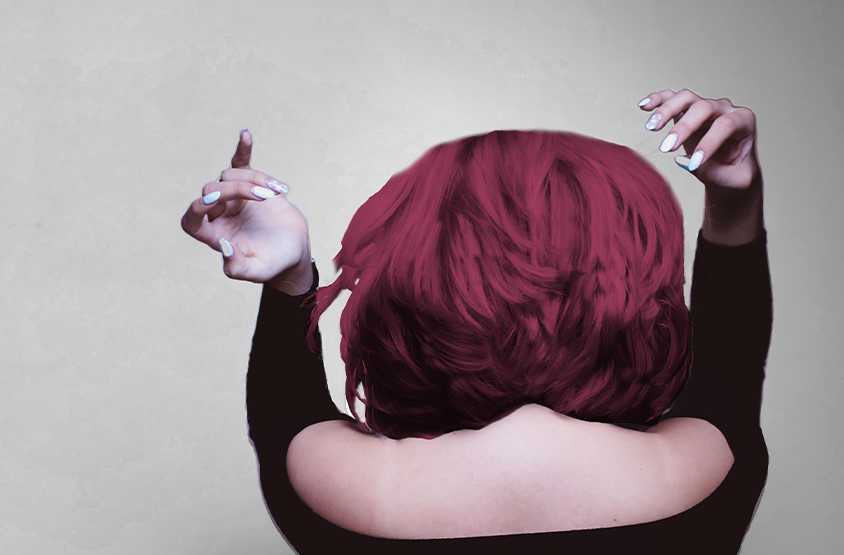
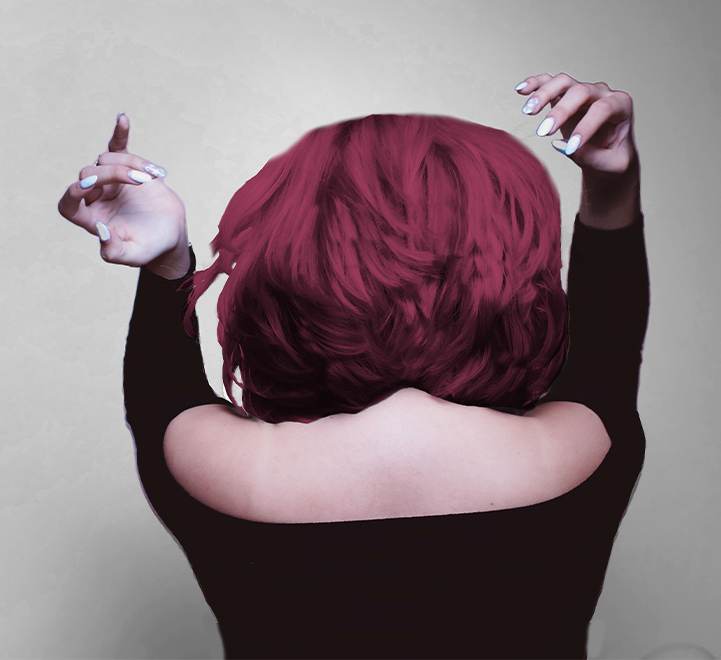
change the image on the main page

diff --git a/css/style.css b/css/style.css
@@ -19,6 +19,10 @@ input:active, :hover, :focus {
 h2 {
 	font-weight: normal;
 }
+.non-scrolling {
+	overflow: hidden;
+	margin-right: 17px;
+}
 .wrap {
 	width: 1144px;
 	margin: 0 auto;
@@ -120,6 +124,9 @@ h2 {
 	background: #ecece6;
 }
 .block-offer {
+	display: flex;
+	flex-direction: column;
+	justify-content: center;
 	background: #ecece6;
 	width: 50%;
 } 
@@ -127,11 +134,10 @@ h2 {
 .page-main__title {
 	display: block;
 	color: #5a5653;
-	margin-top: calc(55% - 129px);
-	margin-left: calc(50% - 200px);
 	font-size: 40px;
 	font-weight: normal;
 	width: 400px;
+	margin-left: calc(50% - 200px);
 }
 .page-main__btn {
 	display: block;
@@ -170,6 +176,12 @@ h2 {
 .page-main__btn a {
 	
 }
+.page-main-content__img_width1200 {
+	display: none;
+}
+.page-main-content__img_width768 {
+	display: none;
+}
 .page-main-content__img {
 	position: relative;
 	height: calc(100vh - 70px);
@@ -197,11 +209,12 @@ h2 {
 .block-about__desc {
 	line-height: 1.5em;
 	width: 600px;
+	letter-spacing: 0.3px;
 }
 
 /* стили для карусели  */
 .carousel {
-	width: 1060px !important;
+	width: 1010px !important;
 	position: relative;
 	margin: 0 auto;
 }
@@ -521,6 +534,7 @@ h2 {
 	margin-left: calc(35% - 250px);
 	width: 500px;
 	line-height: 1.5em;
+	letter-spacing: 0.3px;
 }
 .home-care__slider {
 	width: 444.44px !important;
@@ -606,11 +620,26 @@ footer {
 	.carousel .owl-stage-outer {
 		width: 83%;
 	}
+	.page-main-content__img {
+		max-height: 768px;
+	}
 
 }
 /* планшеты и мобильные */
 /* 992px - 1200px */
 @media screen and (max-width: 1200px) {
+	.page-main-content__img_width1200 {
+		display: block;
+	}
+	.page-main-content__img_width1366 {
+		display: none;
+	}
+	.page-main-content__img img {
+		right: -45px;
+	}
+	.non-scrolling {
+		margin-right: initial;
+	}
 	.wrap {
 		max-width: 820px;
 	}
@@ -623,7 +652,8 @@ footer {
 		width: 350px;
 	}
 	.page-main-content__img {
-		height: 500px;
+		min-height: 500px;
+		max-height: 675px;
 	}
 	.carousel {
 		width: 768px !important;
@@ -652,7 +682,6 @@ footer {
 		position: fixed;
 		z-index: 9999;
 		width: 100%;
-		/* padding-top: 15px; */
 	}
 	.menu {
 		display: none;
@@ -726,17 +755,17 @@ footer {
 		margin-bottom: 60px;
 	}
 	.page-main-content {
-		position: relative;
 		display: flex;
+		flex-direction: column;
+		justify-content: space-around;
 		align-items: center;
-		background-color: #f4f6f0;
+		height: calc(100vh - 70px);
+		min-height: 768px;
 	}
 	.block-offer {
-		position: absolute;
-		background: none;
-		z-index: 3;
-		left: 0;
 		width: initial;
+		width: 90%;
+		margin: 0;
 	}
 	.page-main__title {
 		color: #4a4948;
@@ -749,15 +778,25 @@ footer {
 		width: 100%;
 	}
 	.page-main__btn {
-		margin: 0 auto;
+		margin: 0 auto 20px;
 	}
 	.page-main-content__img {
-		width: 100%;
+		order: -1;
+		min-height: initial;
+		max-height: initial;
+		height: auto;
+		width: 90%;
 	}
 	.page-main-content__img img {
-		height: initial;
-		top: -30%;
-		opacity: 0.25;
+		position: initial;
+		width: 100%;
+		height: auto;
+	}
+	.page-main-content__img_width768 {
+		display: block;
+	}
+	.page-main-content__img_width1200 {
+		display: none;
 	}
 	.carousel {
 		width: 600px !important;
@@ -794,6 +833,12 @@ footer {
 @media screen and (max-width: 650px) {
 	.wrap {
 		max-width: 95%;
+	}
+	.page-main-content__img {
+		width: 85%;
+	}
+	.page-main__title {
+		font-size: 35px;
 	}
 	.block-about__text {
 		width: initial;
@@ -833,8 +878,11 @@ footer {
 }
 /* 320px - 500px */
 @media screen and (max-width: 500px) {
+	.page-main-content {
+		min-height: 550px;
+	}
 	.page-main__title {
-		font-size: 35px;
+		font-size: 28px;
 	}
 	.price {
 		padding-top: 0;
@@ -861,5 +909,10 @@ footer {
 	}
 	.contacts__map {
 		width: 90%;
+	}
+}
+@media screen and (max-width: 340px) {
+	.page-main-content__img {
+		width: 80%;
 	}
 }

diff --git a/js/main.js b/js/main.js
@@ -59,9 +59,7 @@ $(document).ready(function() {
 				$('#popUp')				   
 					.css('display', 'block') 
 					.animate({opacity: 1, top: '15%'}, 490);
-				$('body') 
-					.css('overflow', 'hidden')
-                    .css('marginRight', '15px');
+				$('body').addClass('non-scrolling') 
 		});
 	});
 //по нажатию на крестик закрываю окно
@@ -71,9 +69,7 @@ $(document).ready(function() {
 				function(){ 
 					$(this).css('display', 'none'); 
 					$('#overlay').fadeOut(220);
-					$('body') 
-					   .css('overflow', 'auto')
-                       .css('marginRight', '0px'); 
+					$('body').removeClass('non-scrolling')
 				}
 			);
 	});

diff --git a/index.html b/index.html
@@ -40,7 +40,13 @@
 				<h1 class="page-main__title">Все виды парикмахерских услуг и ногтевой индустрии</h1>
 				<a href="#onlineAppointment" class="page-main__btn">Записаться</a>
 			</div>
-			<div class="page-main-content__img">
+			<div class="page-main-content__img page-main-content__img_width1366">
+				<img src="img/newredgirl3.jpg" alt="">
+			</div>
+			<div class="page-main-content__img page-main-content__img_width1200">
+				<img src="img/newredgirl.jpg" alt="">
+			</div>
+			<div class="page-main-content__img page-main-content__img_width768">
 				<img src="img/newredgirl1.jpg" alt="">
 			</div>
 		</div>
